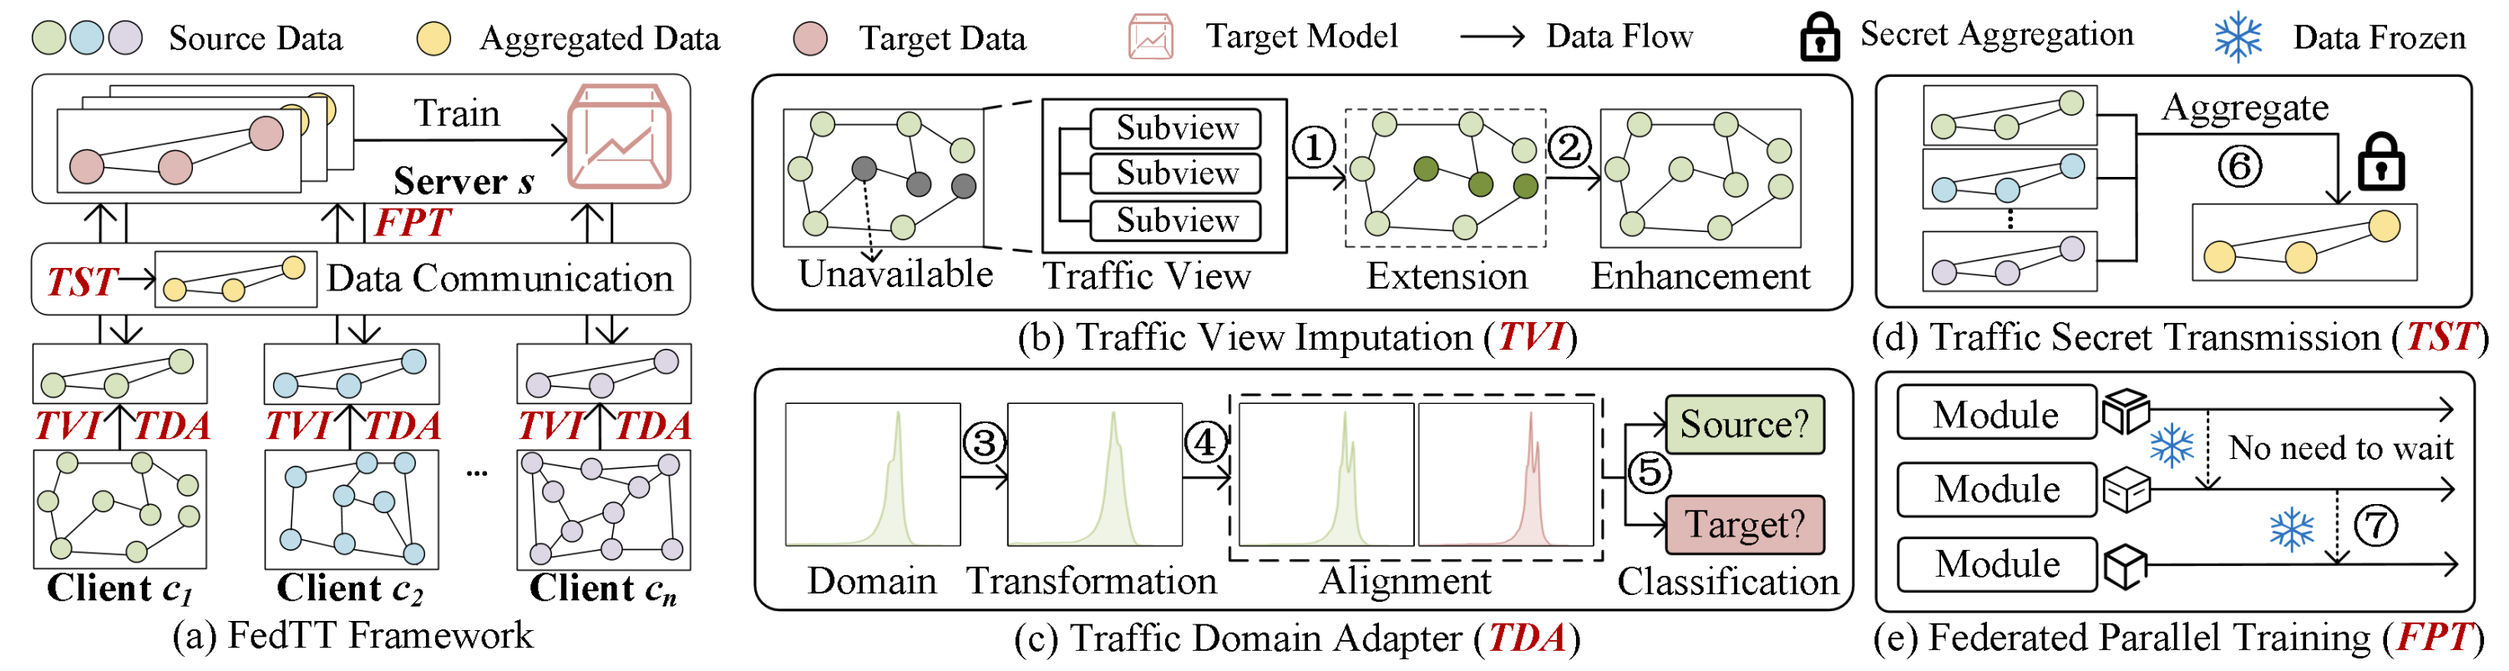
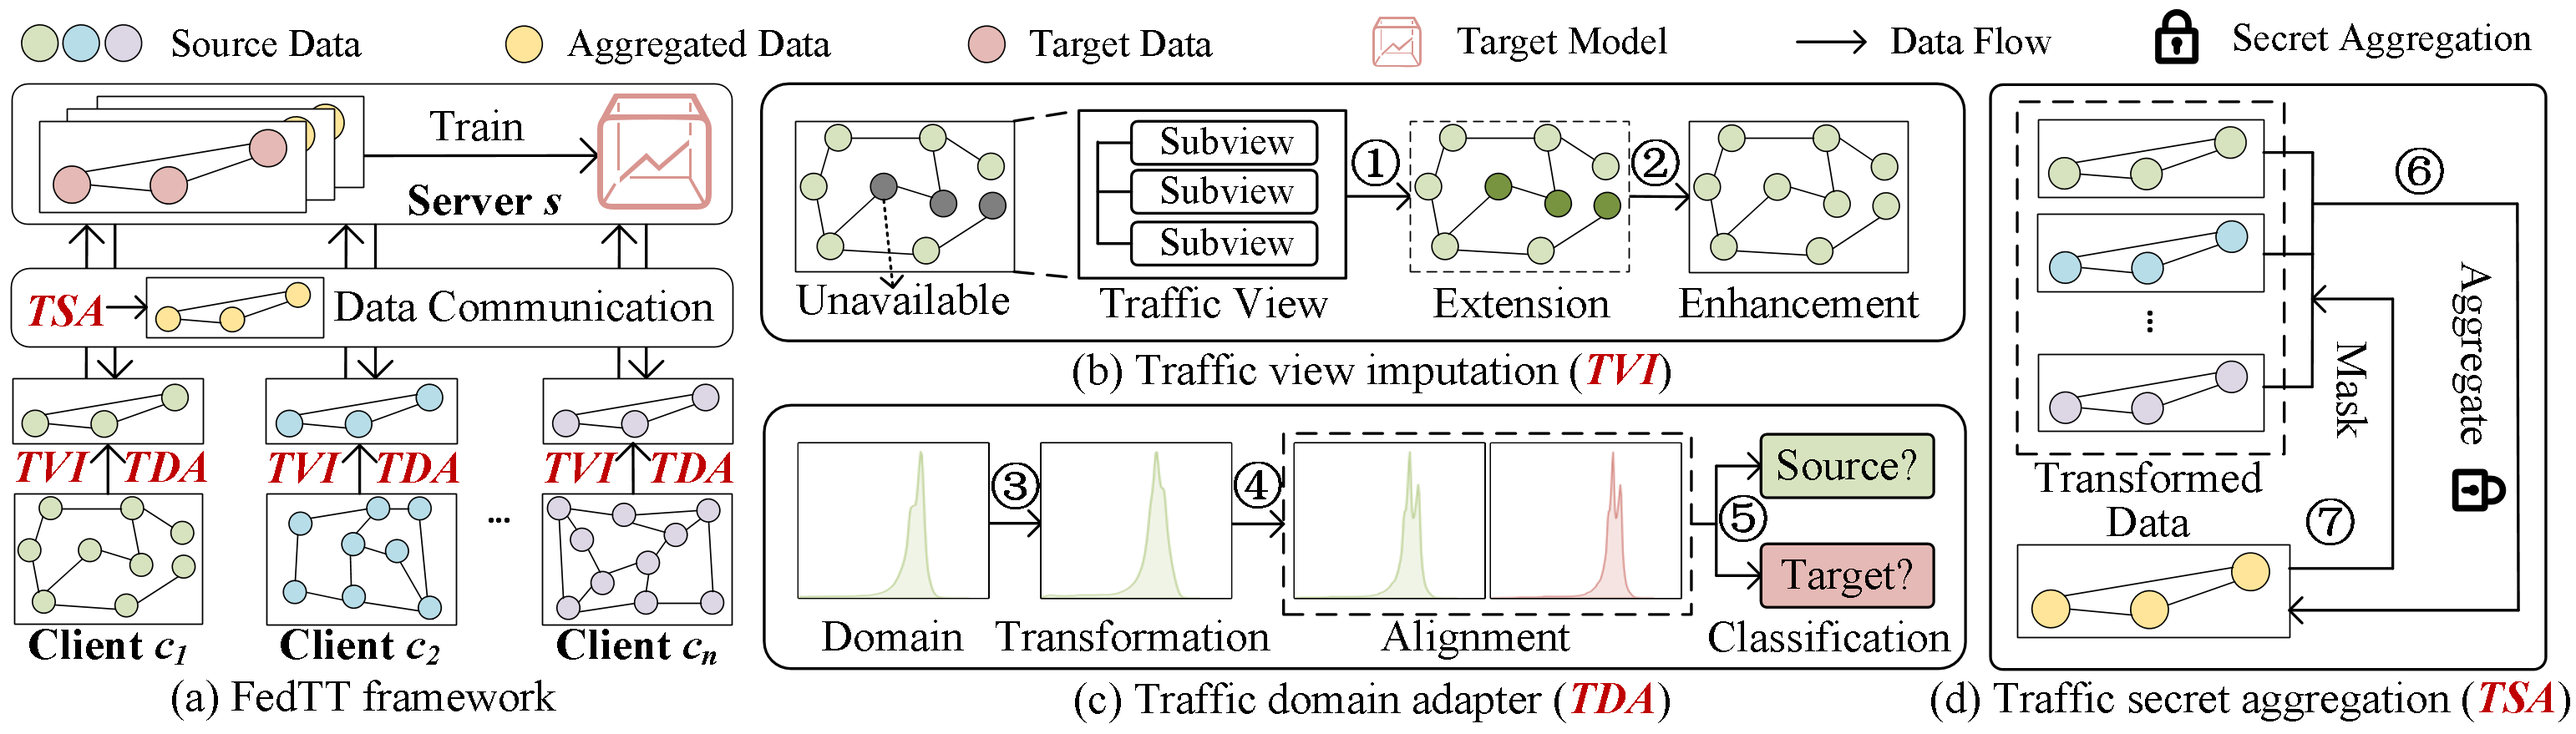
FedTT

Changed region(s): [[0.0, 0.0, 1.0, 0.995]]

diff --git a/README.md b/README.md
@@ -1,35 +1,31 @@
 # FedTT
 
-In this paper, we propose FedTT, an effective, efficient, privacy-aware cross-city traffic knowledge transfer framework,
-which transforms the traffic domain of data from source cities and trains the traffic model on transformed data in the
-target city. First, we design a traffic view imputation method to complete and predict missing traffic data by capturing
-spatio-temporal dependencies of traffic view. Second, we utilize a traffic domain adapter to uniformly transform the
-traffic data from the traffic domains of source cities into that of the target city. Third, we propose a traffic secret
-transmission method to securely transmit and aggregate the transformed data using a lightweight traffic secret
-aggregation method. Fourth, we introduce a federated parallel training method to enable the simultaneous training of
-modules. Experiments using 4 datasets on three mainstream traffic prediction tasks demonstrate the superiority of the
-framework. In future work, we aim to extend FedTT to support a broader range of spatio-temporal prediction tasks.
+Traffic prediction aims to forecast future traffic conditions using historical traffic data, serving a crucial role in urban computing and transportation management. While transfer learning and federated learning have been employed to address the scarcity of traffic data by transferring traffic knowledge from data-rich to data-scarce cities without traffic data exchange, existing approaches in Federated Traffic Knowledge Transfer (FTT) still face several critical challenges such as potential privacy leakage, cross-city data distribution discrepancies, and low data quality, hindering their practical application in real-world scenarios. To this end, we present FedTT, a novel privacy-aware and efficient federated learning framework for cross-city traffic knowledge transfer. Specifically, our proposed framework includes four key innovations: (i) a traffic view imputation method for missing traffic data completion to enhance data quality, (ii) a traffic domain adapter for uniform traffic data transformation to address data distribution discrepancies, and (iii) a traffic secret aggregation protocol for secure traffic data aggregation to safeguard data privacy. Extensive experiments on 4 real-world datasets demonstrate that the proposed FedTT framework outperforms the 14 state-of-the-art baselines.
 
 ![framework.png](framework.png)
 
-## Environment
+## ⚙ Environment
 
-Python.version = 3.9.21<br>
+Python.version = 3.9.21
+
 Other dependencies are listed in requirements.txt.
 
-All the experiments are conducted in the federated environment on four nodes, one as a server and the other three as
-clients, each equipped with two Intel(R) Xeon(R) CPU E5-2650 v4@2.20GHz 12-core processors, 128GB of RAM, and a
-Internet speed of 100MB/s.
+All the experiments are conducted in the federated environment on four nodes, one as a server and the other three as clients, each equipped with two Intel(R) Xeon(R) CPU E5-2650 v4@2.20GHz 12-core processors, 128GB of RAM, and a Internet speed of 100MB/s.
 
-## Datasets
+## 🌍 Datasets
 
-The datasets used in this paper are public and available
-in https://drive.google.com/drive/folders/1a4JNMJNWYGF4he7rlt_aYT3I4P4XX8FK?usp=sharing.
+In this paper, we used 4 public datasets including PeMSD4, PeMSD8, FT-AED, HK-Traffic. The statistics of dataset as detailed below:
 
-## Complication
+|                           Dataset                            | # instances | # sensors | Interval |      City      | Missing Rate |
+| :----------------------------------------------------------: | :---------: | :-------: | :------: | :------------: | :----------: |
+|     [PeMSD4](https://paperswithcode.com/dataset/pemsd4)      |   16,992    |    307    |  5 min   | San Francisco  |    16.35%    |
+|     [PeMSD8](https://paperswithcode.com/dataset/pemsd8)      |   17,856    |    170    |  5 min   | San Bernardino |    20.09%    |
+|        [FT-AED](https://acoursey3.github.io/ft-aed/)         |    1,920    |    196    |  5 min   |   Nashville    |    4.59%     |
+| [HK-Traffic](https://data.gov.hk/en-data/dataset/hk-td-sm_4-traffic-data-strategic-major-roads) |   17,856    |    411    |  5 min   |   Hong Kong    |    13.01%    |
+
+## 🛠 Running
 
 The running example of FedTT is as follows.
 
 ````
 python main.py --address 'localhost' --batch_size 128 --clients_num 3--device 'cuda' --epoch 100 --frozen 5 --learning_rate 0.005 --model 'mlp' --task 'flow' --test_split 0.1 --time_step 12 --train_split 0.8 --val_split 0.1
-
